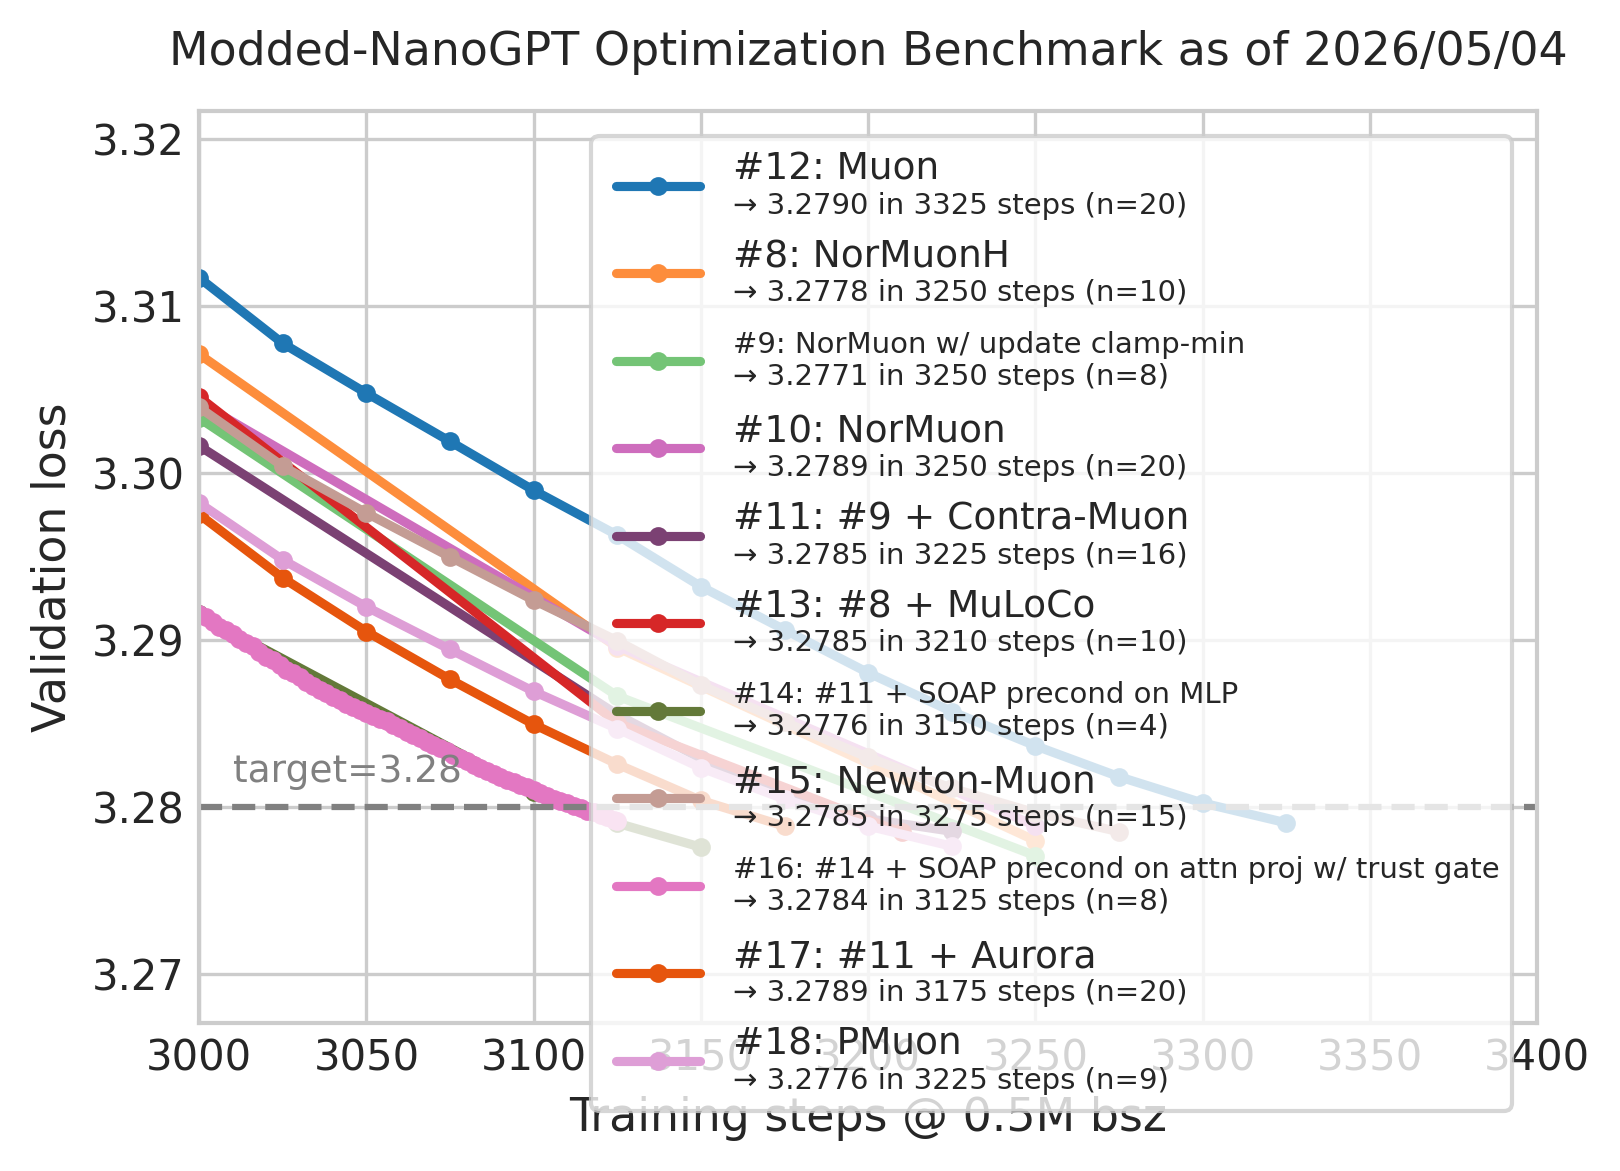
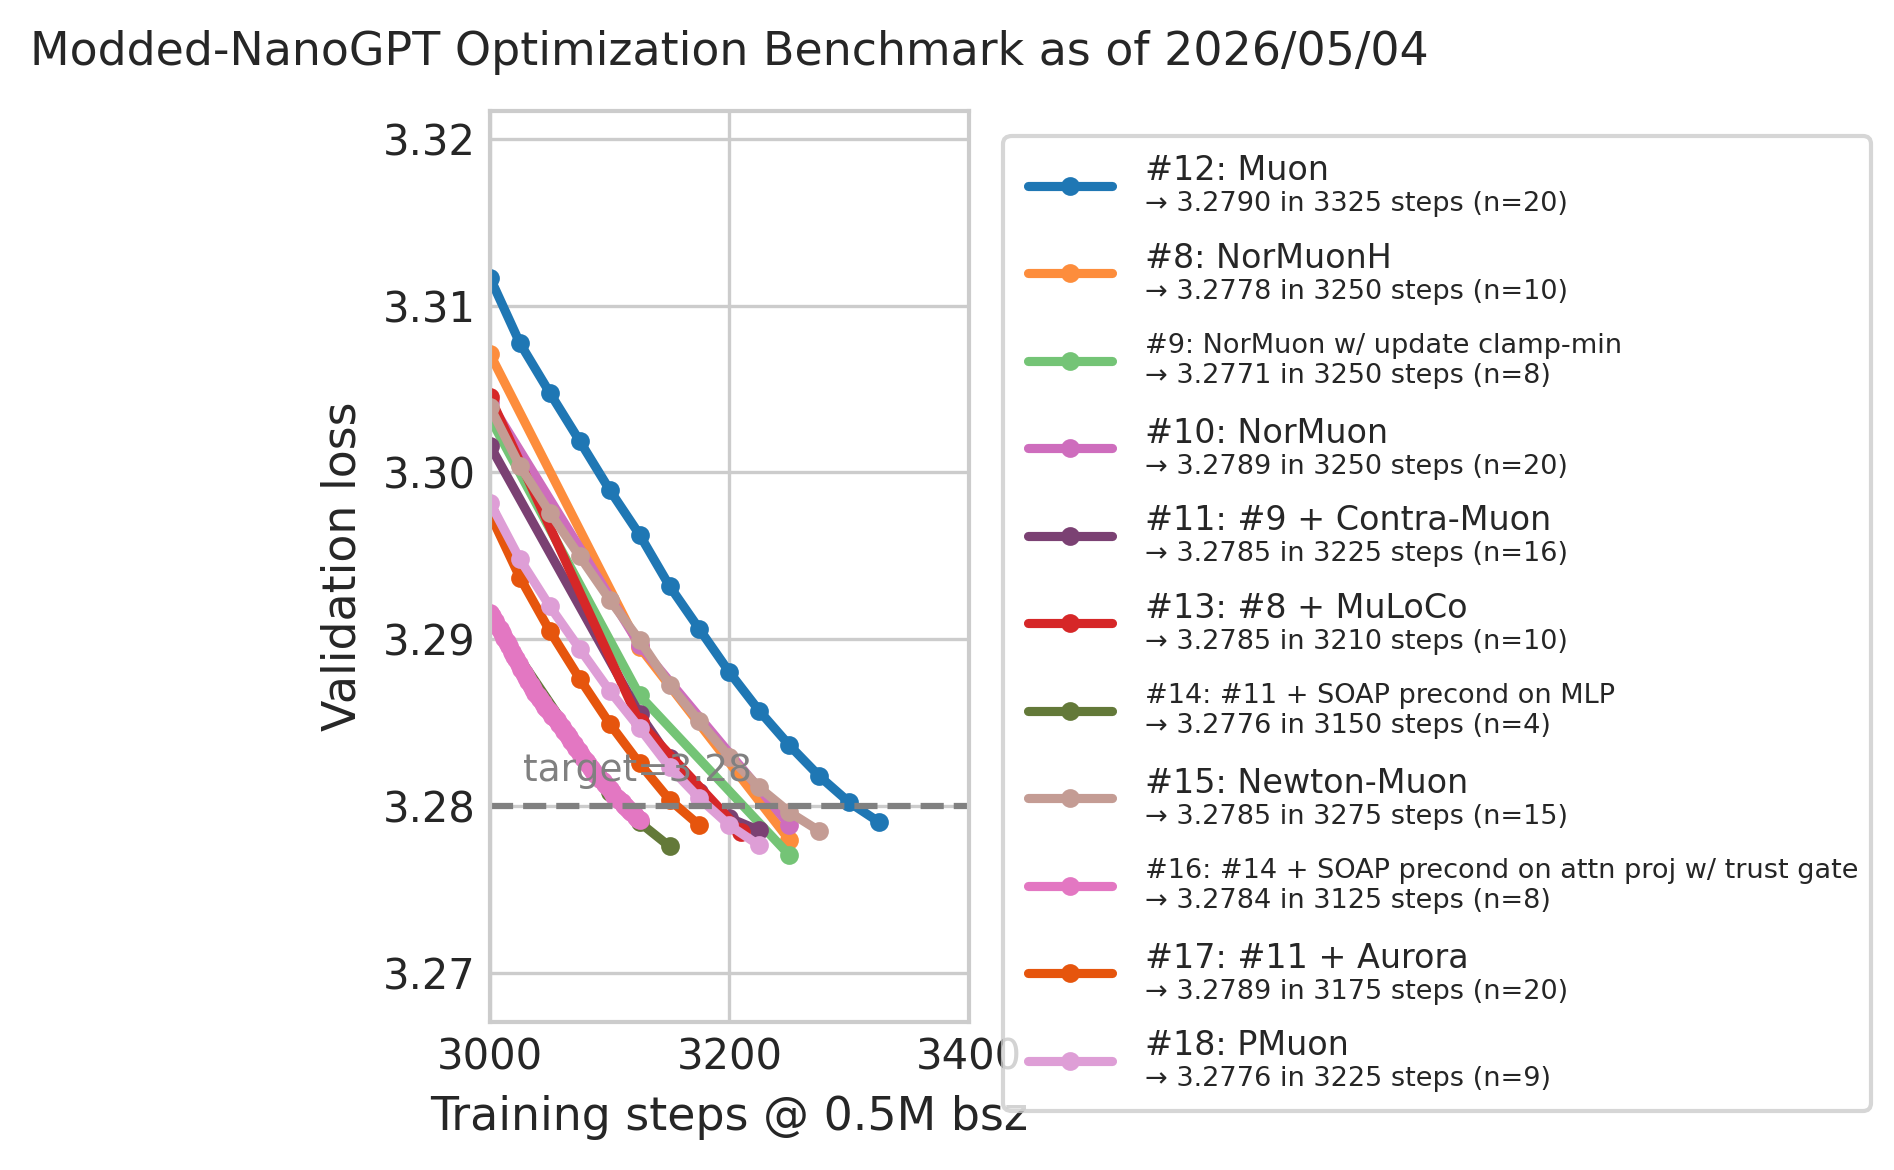
.

diff --git a/records/track_3_optimization/make_figures.py b/records/track_3_optimization/make_figures.py
@@ -67,11 +67,11 @@ def add_legend(ax, legend_entries):
             linewidth=2.2,
             color=color,
         ))
-        label_size = 7 if len(label) > 25 else 9
+        label_size = 6.5 if len(label) > 25 else 8
         text = VPacker(
             children=[
                 TextArea(label, textprops={'fontsize': label_size}),
-                TextArea(evidence, textprops={'fontsize': 7}),
+                TextArea(evidence, textprops={'fontsize': 6.5}),
             ],
             align='left',
             pad=0,
@@ -84,11 +84,13 @@ def add_legend(ax, legend_entries):
             sep=5,
         ))
     legend = AnchoredOffsetbox(
-        loc='upper right',
+        loc='upper left',
         child=VPacker(children=rows, align='left', pad=0, sep=3),
         frameon=True,
         pad=0.15,
         borderpad=0.75,
+        bbox_to_anchor=(1.02, 1),
+        bbox_transform=ax.transAxes,
     )
     legend.patch.set_alpha(plt.rcParams['legend.framealpha'])
     legend.patch.set_edgecolor(plt.rcParams['legend.edgecolor'])

diff --git a/records/track_3_optimization/README.md b/records/track_3_optimization/README.md
@@ -41,7 +41,7 @@ If it fails to reproduce (i.e., we get statistical evidence that its mean is abo
 | 11 | 3225(!) | 3.2785 (n=16)✓ | Setup from #9 plus [Contra-Muon](https://github.com/nilin/contra-muon) technique (note: not [statsig](#pairwise-statistical-significance) vs #9) | 2026/05/01 | [log](results/20260501_contra_muon/08cd60f9-99e2-4e28-b1ac-19136dd42a05.txt) | [PR](https://github.com/KellerJordan/modded-nanogpt/pull/275) | @nilin |
 | 12 | 3325 | 3.2790 (n=20)✓ | Muon with aux Adam, lr=.035 wd=.025 following #10, end 25 steps early following #8 | 2026/05/03 | [log](results/1bd8db7a-f3a3-4195-856d-cab7e0816443.txt) | N/A | @kellerjordan0 |
 | 13 | 3210(!) | 3.2785 (n=10)✓ | NorMuonH (#8) wrapped in [MuLoCo](https://arxiv.org/abs/2502.07314)-style outer Nesterov SGD (Algorithm 1, K=1) over all trainable params, outer_lr=0.7 outer_momentum=0.5 sync_interval=30 (= 107 outer steps) (note: not [statsig](#pairwise-statistical-significance) vs #8 or #11) | 2026/05/04 | [log](results/20260504_muloco_normuonh/7fba9434-58d8-4166-b6a7-d62ef8d17e5d.txt) | [PR](https://github.com/KellerJordan/modded-nanogpt/pull/277) | @bentherien |
-| 14 | 3150(!) | 3.2776 (n=4)✓ | Setup from #12, plus SOAP preconditioning before Muon orthogonalization for the MLP weights, similarly to [soap-muon](https://nikhilvyas.github.io/SOAP_Muon.pdf) | 2026/05/04 | [log](results/20260504_contra_muon_mlp_soapish/0248394b-0d6c-4133-9ff7-e7ff2763cdd9.txt) | [PR](https://github.com/KellerJordan/modded-nanogpt/pull/278) | @Sam_Acqua |
+| 14 | 3150(!) | 3.2776 (n=4)✓ | Setup from #12, plus SOAP preconditioning before Muon orthogonalization for the MLP weights. Related to [soap-muon](https://nikhilvyas.github.io/SOAP_Muon.pdf) | 2026/05/04 | [log](results/20260504_contra_muon_mlp_soapish/0248394b-0d6c-4133-9ff7-e7ff2763cdd9.txt) | [PR](https://github.com/KellerJordan/modded-nanogpt/pull/278) | @Sam_Acqua |
 | 15 | 3275 | 3.2785 (n=15)✓ | [Newton-Muon](https://arxiv.org/abs/2604.01472) with activation-covariance right-preconditioning refreshed every 64 steps before the Muon Newton-Schulz update ([details](results/20260505_newton_muon/README.md)); tuned lr/wd per param type | 2026/05/05 | [log](results/20260505_newton_muon/6fb302c7-d271-491b-906f-75cd6ec72075.txt) | [PR](https://github.com/KellerJordan/modded-nanogpt/pull/281) | @zhehangdu |
 | 16 | 3125(!) | 3.2784 (n=8)✓ | Setup from #14, plus SOAP precond for attention with trust gate (note: not [statsig](#pairwise-statistical-significance) vs #14) | 2026/05/05 | [log](results/20260506_trustlight/fake_log_from_seed0.txt) | [PR](https://github.com/KellerJordan/modded-nanogpt/pull/283) | @SPThole |
 | 17 | 3175 | 3.2789 (n=20) | Setup from #11, plus [Aurora](https://github.com/tilde-research/aurora-release) | 2026/05/06 | [log](results/20260505_aurora/298f02bc-dbb4-4661-9ad8-f6429d532873.txt) | [PR](https://github.com/KellerJordan/modded-nanogpt/pull/284) | @liyang2019 |
